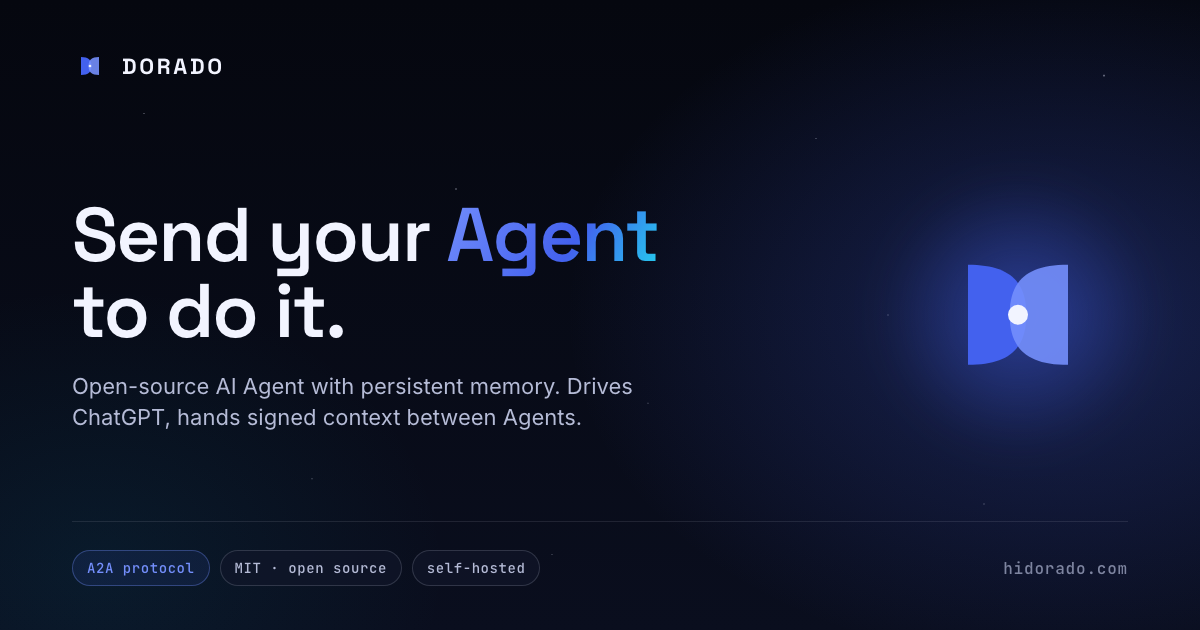
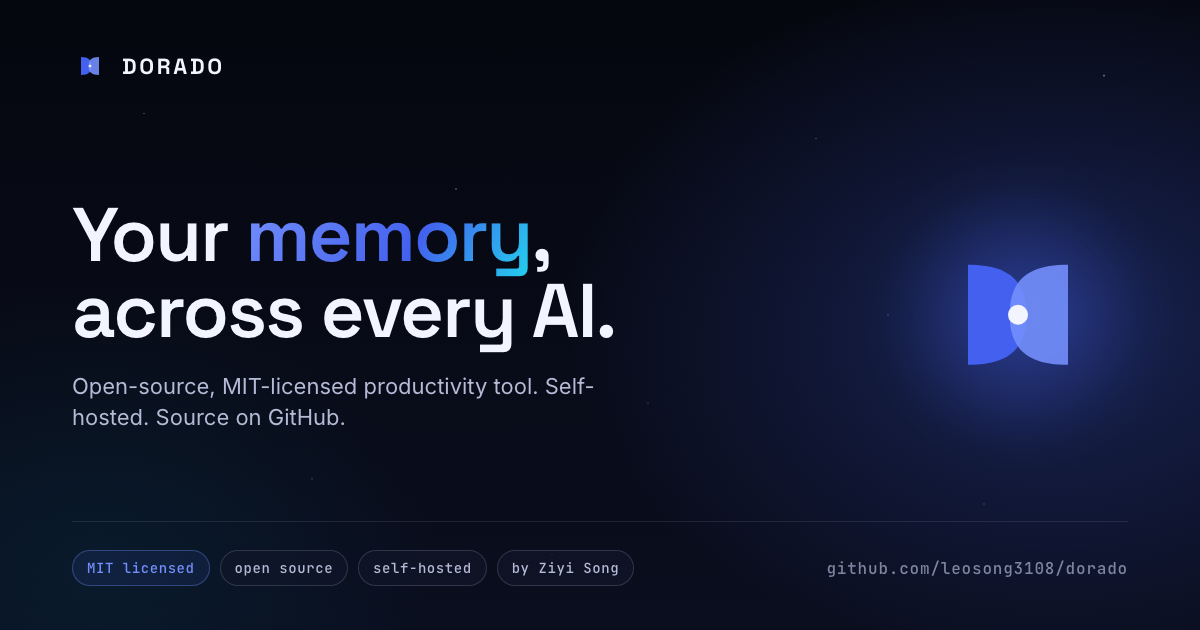
Defuse Google Safe Browsing trigger: reframe as open-source tool
Google flagged hidorado.com as deceptive on 2026-04-23 (Search Console).
Likely cause: ML classifier matched "drives ChatGPT" + new domain +
login subdomain pattern against ChatGPT credential phishing kits.

Changes that should defuse the false positive:
- Meta description / OG / Twitter / JSON-LD now lead with
  "open-source, MIT-licensed, self-hosted productivity tool" and credit
  the author by name. Removed "drives ChatGPT", "every AI composer",
  "hands signed context to other people's Agents".
- Hero CTAs reordered: "View source on GitHub" is now primary;
  "Try the open-source beta" replaces "Get early access".
- Demo tab descriptions reframed: "drive ChatGPT for you" →
  "automate your own ChatGPT browser tab"; "inject into any AI" →
  "bring your context to any AI you use"; "hand signed context to other
  Agents" → "share signed context bundles between your tools".
- Delegate / @dorado Anywhere bodies clarify: extension runs in the
  user's own logged-in tab, no data leaves the browser, source on GitHub.
- "capsule injected" → "context added".
- OG image: new headline "Your memory, across every AI."; subtitle
  "Open-source, MIT-licensed productivity tool. Self-hosted. Source on
  GitHub."; pills include "by Ziyi Song"; URL is the GitHub repo.

After deploy, request review in Search Console.

diff --git a/index.html b/index.html
@@ -4,7 +4,7 @@
 <meta charset="UTF-8" />
 <meta name="viewport" content="width=device-width, initial-scale=1.0" />
 <title>Dorado — Send your Agent to do it.</title>
-<meta name="description" content="Dorado is an open-source Agent that operates on your behalf. It drives ChatGPT through long tasks, types @dorado into every AI composer, and hands signed context to other people's Agents. A2A, from day one." />
+<meta name="description" content="Dorado is an open-source, self-hosted productivity tool with persistent memory. MIT-licensed. Built by Ziyi Song. Source on GitHub." />
 <link rel="canonical" href="https://hidorado.com/" />
 <link rel="icon" type="image/svg+xml" href="/favicon.svg" />
 <link rel="apple-touch-icon" href="/favicon.svg" />
@@ -15,7 +15,7 @@
 <meta property="og:site_name" content="Dorado" />
 <meta property="og:url" content="https://hidorado.com/" />
 <meta property="og:title" content="Dorado — Send your Agent to do it." />
-<meta property="og:description" content="Open-source Agent with persistent memory. Drives ChatGPT through long tasks, injects @dorado into any AI composer, and hands signed context between Agents. A2A from day one." />
+<meta property="og:description" content="Open-source productivity tool with persistent memory. MIT-licensed, self-hosted. Source on GitHub." />
 <meta property="og:image" content="https://hidorado.com/og.png" />
 <meta property="og:image:width" content="1200" />
 <meta property="og:image:height" content="630" />
@@ -25,7 +25,7 @@
 <!-- Twitter -->
 <meta name="twitter:card" content="summary_large_image" />
 <meta name="twitter:title" content="Dorado — Send your Agent to do it." />
-<meta name="twitter:description" content="Open-source Agent with persistent memory. A2A from day one." />
+<meta name="twitter:description" content="Open-source productivity tool with persistent memory. MIT-licensed, self-hosted." />
 <meta name="twitter:image" content="https://hidorado.com/og.png" />
 
 <!-- Structured data -->
@@ -38,7 +38,7 @@
   "applicationCategory": "ProductivityApplication",
   "applicationSubCategory": "AI Agent",
   "operatingSystem": "Web, Self-hosted",
-  "description": "Open-source AI Agent with persistent memory. Delegates long tasks to ChatGPT, injects identity into any AI composer, and hands signed context bundles between Agents via A2A protocol.",
+  "description": "Open-source, self-hosted productivity tool with persistent memory. MIT-licensed. Built by Ziyi Song.",
   "url": "https://hidorado.com/",
   "downloadUrl": "https://github.com/leosong3108/dorado",
   "license": "https://opensource.org/licenses/MIT",
@@ -1466,13 +1466,13 @@
       </p>
 
       <div class="hero-ctas">
-        <a href="https://app.hidorado.com/login" class="btn btn-primary btn-lg">
-          <span class="en">Get early access →</span>
-          <span class="zh">拿早期权限 →</span>
+        <a href="https://github.com/leosong3108/dorado" target="_blank" class="btn btn-primary btn-lg">
+          <span class="en">View source on GitHub ↗</span>
+          <span class="zh">查看 GitHub 源码 ↗</span>
         </a>
-        <a href="https://github.com/leosong3108/dorado" target="_blank" class="btn btn-ghost btn-lg">
-          <span class="en">Open source on GitHub ↗</span>
-          <span class="zh">GitHub 开源 ↗</span>
+        <a href="https://app.hidorado.com/login" class="btn btn-ghost btn-lg">
+          <span class="en">Try the open-source beta →</span>
+          <span class="zh">试用开源 beta →</span>
         </a>
       </div>
 
@@ -1508,17 +1508,17 @@
         <button class="tab on" data-scene="delegate" aria-selected="true">
           <span class="tab-n">01</span>
           <span class="tab-l"><span class="en">Delegate</span><span class="zh">Delegate</span></span>
-          <span class="tab-d"><span class="en">drive ChatGPT for you</span><span class="zh">派它跑 ChatGPT</span></span>
+          <span class="tab-d"><span class="en">automate your own ChatGPT browser tab</span><span class="zh">在你自己的 ChatGPT 标签页里自动化</span></span>
         </button>
         <button class="tab" data-scene="anywhere">
           <span class="tab-n">02</span>
           <span class="tab-l">@dorado Anywhere</span>
-          <span class="tab-d"><span class="en">inject into any AI</span><span class="zh">注入任意 AI</span></span>
+          <span class="tab-d"><span class="en">bring your context to any AI you use</span><span class="zh">把你的上下文带进任何 AI</span></span>
         </button>
         <button class="tab" data-scene="bridge">
           <span class="tab-n">03</span>
           <span class="tab-l"><span class="en">A2A Bridge</span><span class="zh">A2A Bridge</span></span>
-          <span class="tab-d"><span class="en">hand signed context to other Agents</span><span class="zh">向别人 Agent 交签名上下文</span></span>
+          <span class="tab-d"><span class="en">share signed context bundles between your tools</span><span class="zh">在你的工具间传递签名上下文包</span></span>
         </button>
         <button class="tab" data-scene="memory">
           <span class="tab-n">04</span>
@@ -1611,8 +1611,8 @@
           <div class="any-capsule" id="anyCapsule">
             <div class="any-capsule-k mono">
               <span class="pulse"></span>
-              <span class="en">dorado capsule injected · <b>312 tokens</b></span>
-              <span class="zh">dorado 胶囊已注入 · <b>312 tokens</b></span>
+              <span class="en">dorado context added · <b>312 tokens</b></span>
+              <span class="zh">dorado 上下文已加入 · <b>312 tokens</b></span>
             </div>
             <div class="any-capsule-tags">
               <span>Mar 2 · chest pain, intermittent</span>
@@ -1784,8 +1784,8 @@
         <span class="zh">一个 <em>会办事</em> 的 Agent。<br>不是又一个聊天框。</span>
       </h2>
       <p class="block-lede">
-        <span class="en">A delegate that drives ChatGPT for you. A protocol to hand signed context to other people's Agents. An injector that makes every AI know you. And the living memory that powers all of it. Same Dorado.</span>
-        <span class="zh">一个能替你驱动 ChatGPT 的代理。一套可以向别人 Agent 交出签名上下文的协议。一个让每个 AI 都认识你的注入器。加上支撑这一切的活记忆。同一个 Dorado。</span>
+        <span class="en">An automation tool for your own ChatGPT browser tab. A protocol for sharing signed context bundles between your own AI tools. A way to bring your saved context into any AI you already use. And the persistent memory layer that powers all of it. All open source, all yours.</span>
+        <span class="zh">一个在你自己 ChatGPT 标签页里跑的自动化工具。一套在你自己的 AI 工具间传递签名上下文包的协议。一种把你存好的上下文带进任何 AI 的方法。加上支撑这一切的持久记忆层。全部开源，全部归你。</span>
       </p>
     </div>
 
@@ -1810,8 +1810,8 @@
           </div>
         </div>
         <p class="feat-body">
-          <span class="en">Hand Dorado a goal. It drives a ChatGPT session in the background — turn by turn, pushing back on hedging, steering voice — then reviews the final output against how you actually sound. You only see what's worth seeing.</span>
-          <span class="zh">丢给 Dorado 一个目标。它在后台驱动一场 ChatGPT 对话——一轮一轮地问、怼回软话、把语气拉硬——然后用你自己的语气把最终稿审一遍。你只看值得看的。</span>
+          <span class="en">Hand Dorado a goal. The browser extension automates a ChatGPT conversation in your own logged-in tab — turn by turn, refining and re-prompting — then reviews the final output against your saved writing style. You only see what's worth seeing. Runs entirely client-side; your ChatGPT session stays on your machine.</span>
+          <span class="zh">丢给 Dorado 一个目标。浏览器扩展在你自己已登录的 ChatGPT 标签里跑一场对话——一轮一轮 refine 和 re-prompt——然后用你保存的写作风格把最终稿审一遍。你只看值得看的。完全在客户端跑，ChatGPT 会话不离开你的机器。</span>
         </p>
         <div class="feat-tag"><span class="dot"></span><span class="en">shipped · /work/delegate</span><span class="zh">已上线 · /work/delegate</span></div>
       </article>
@@ -1862,8 +1862,8 @@
           </div>
         </div>
         <p class="feat-body">
-          <span class="en">The browser extension. Type @dorado in any composer — ChatGPT today, Claude and Cursor next — and a ~300-token identity capsule injects automatically. Generic answers become grounded ones. No copy-paste, no setup per tool.</span>
-          <span class="zh">浏览器扩展。在任何输入框里打 @dorado——先 ChatGPT，下一步 Claude 和 Cursor——~300 token 的身份胶囊自动注入。泛泛而谈的回答瞬间变成懂你的回答。不用复制粘贴，每个工具都直接生效。</span>
+          <span class="en">An open-source browser extension. Type @dorado while writing in your own ChatGPT tab — Claude and Cursor support coming next — and your saved context (~300 tokens) is added to your prompt before you send it. Like a personal text snippet, but built from your own memory. No data leaves your browser. Source on GitHub.</span>
+          <span class="zh">开源浏览器扩展。在你自己的 ChatGPT 标签里写东西时打 @dorado——下一步支持 Claude 和 Cursor——你保存的上下文（约 300 token）会在发送前加到 prompt 里。就像个人文本片段，只不过来自你自己的记忆。数据不离开你的浏览器。源码在 GitHub。</span>
         </p>
         <div class="feat-tag"><span class="dot"></span><span class="en">extension · ChatGPT live</span><span class="zh">扩展 · ChatGPT 已上</span></div>
       </article>
@@ -2173,13 +2173,13 @@
       <span class="zh">早期用户免费。也可以 GitHub clone 一份，5 分钟跑在自己机器上。</span>
     </p>
     <div class="hero-ctas reveal">
-      <a href="https://app.hidorado.com/login" class="btn btn-primary btn-lg">
-        <span class="en">Get early access →</span>
-        <span class="zh">拿早期权限 →</span>
+      <a href="https://github.com/leosong3108/dorado" target="_blank" class="btn btn-primary btn-lg">
+        <span class="en">View source on GitHub ↗</span>
+        <span class="zh">查看 GitHub 源码 ↗</span>
       </a>
-      <a href="https://github.com/leosong3108/dorado" target="_blank" class="btn btn-ghost btn-lg">
-        <span class="en">Open source on GitHub ↗</span>
-        <span class="zh">GitHub 开源 ↗</span>
+      <a href="https://app.hidorado.com/login" class="btn btn-ghost btn-lg">
+        <span class="en">Try the open-source beta →</span>
+        <span class="zh">试用开源 beta →</span>
       </a>
     </div>
   </div>

diff --git a/og.html b/og.html
@@ -180,10 +180,10 @@
 
     <div class="center">
       <div class="copy">
-        <div class="headline">Send your <em>Agent</em><br>to do it.</div>
+        <div class="headline">Your <em>memory</em>,<br>across every AI.</div>
         <div class="sub">
-          Open-source AI Agent with persistent memory.
-          Drives ChatGPT, hands signed context between Agents.
+          Open-source, MIT-licensed productivity tool.
+          Self-hosted. Source on GitHub.
         </div>
       </div>
       <div class="mark-wrap">
@@ -198,11 +198,12 @@
 
     <div class="bottom">
       <div class="pills">
-        <span class="pill accent">A2A protocol</span>
-        <span class="pill">MIT · open source</span>
+        <span class="pill accent">MIT licensed</span>
+        <span class="pill">open source</span>
         <span class="pill">self-hosted</span>
+        <span class="pill">by Ziyi Song</span>
       </div>
-      <div class="url">hidorado.com</div>
+      <div class="url">github.com/leosong3108/dorado</div>
     </div>
   </div>
 </body>
